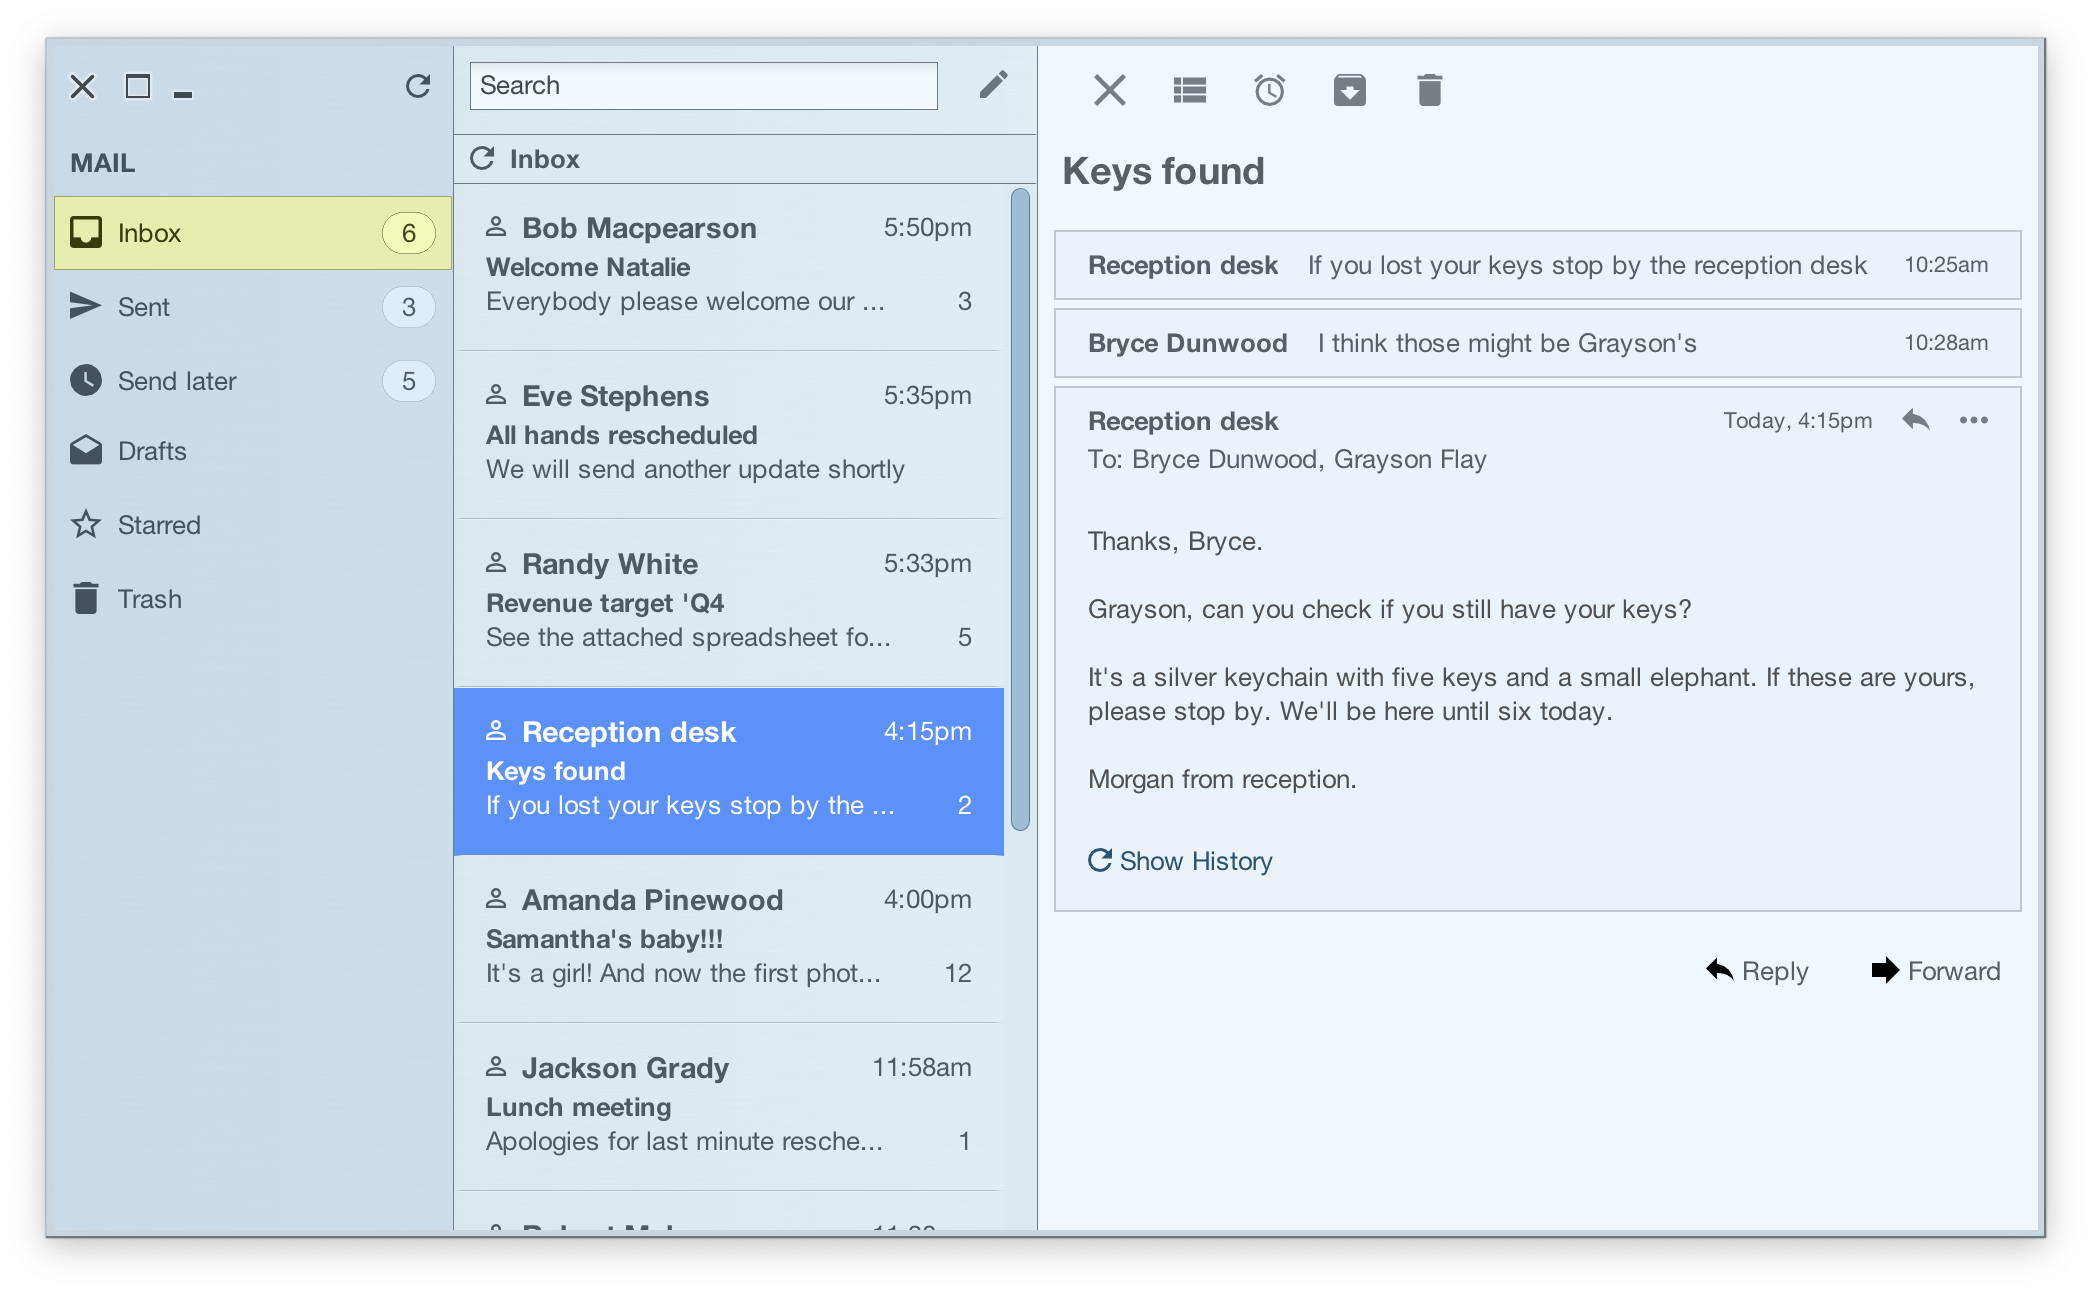
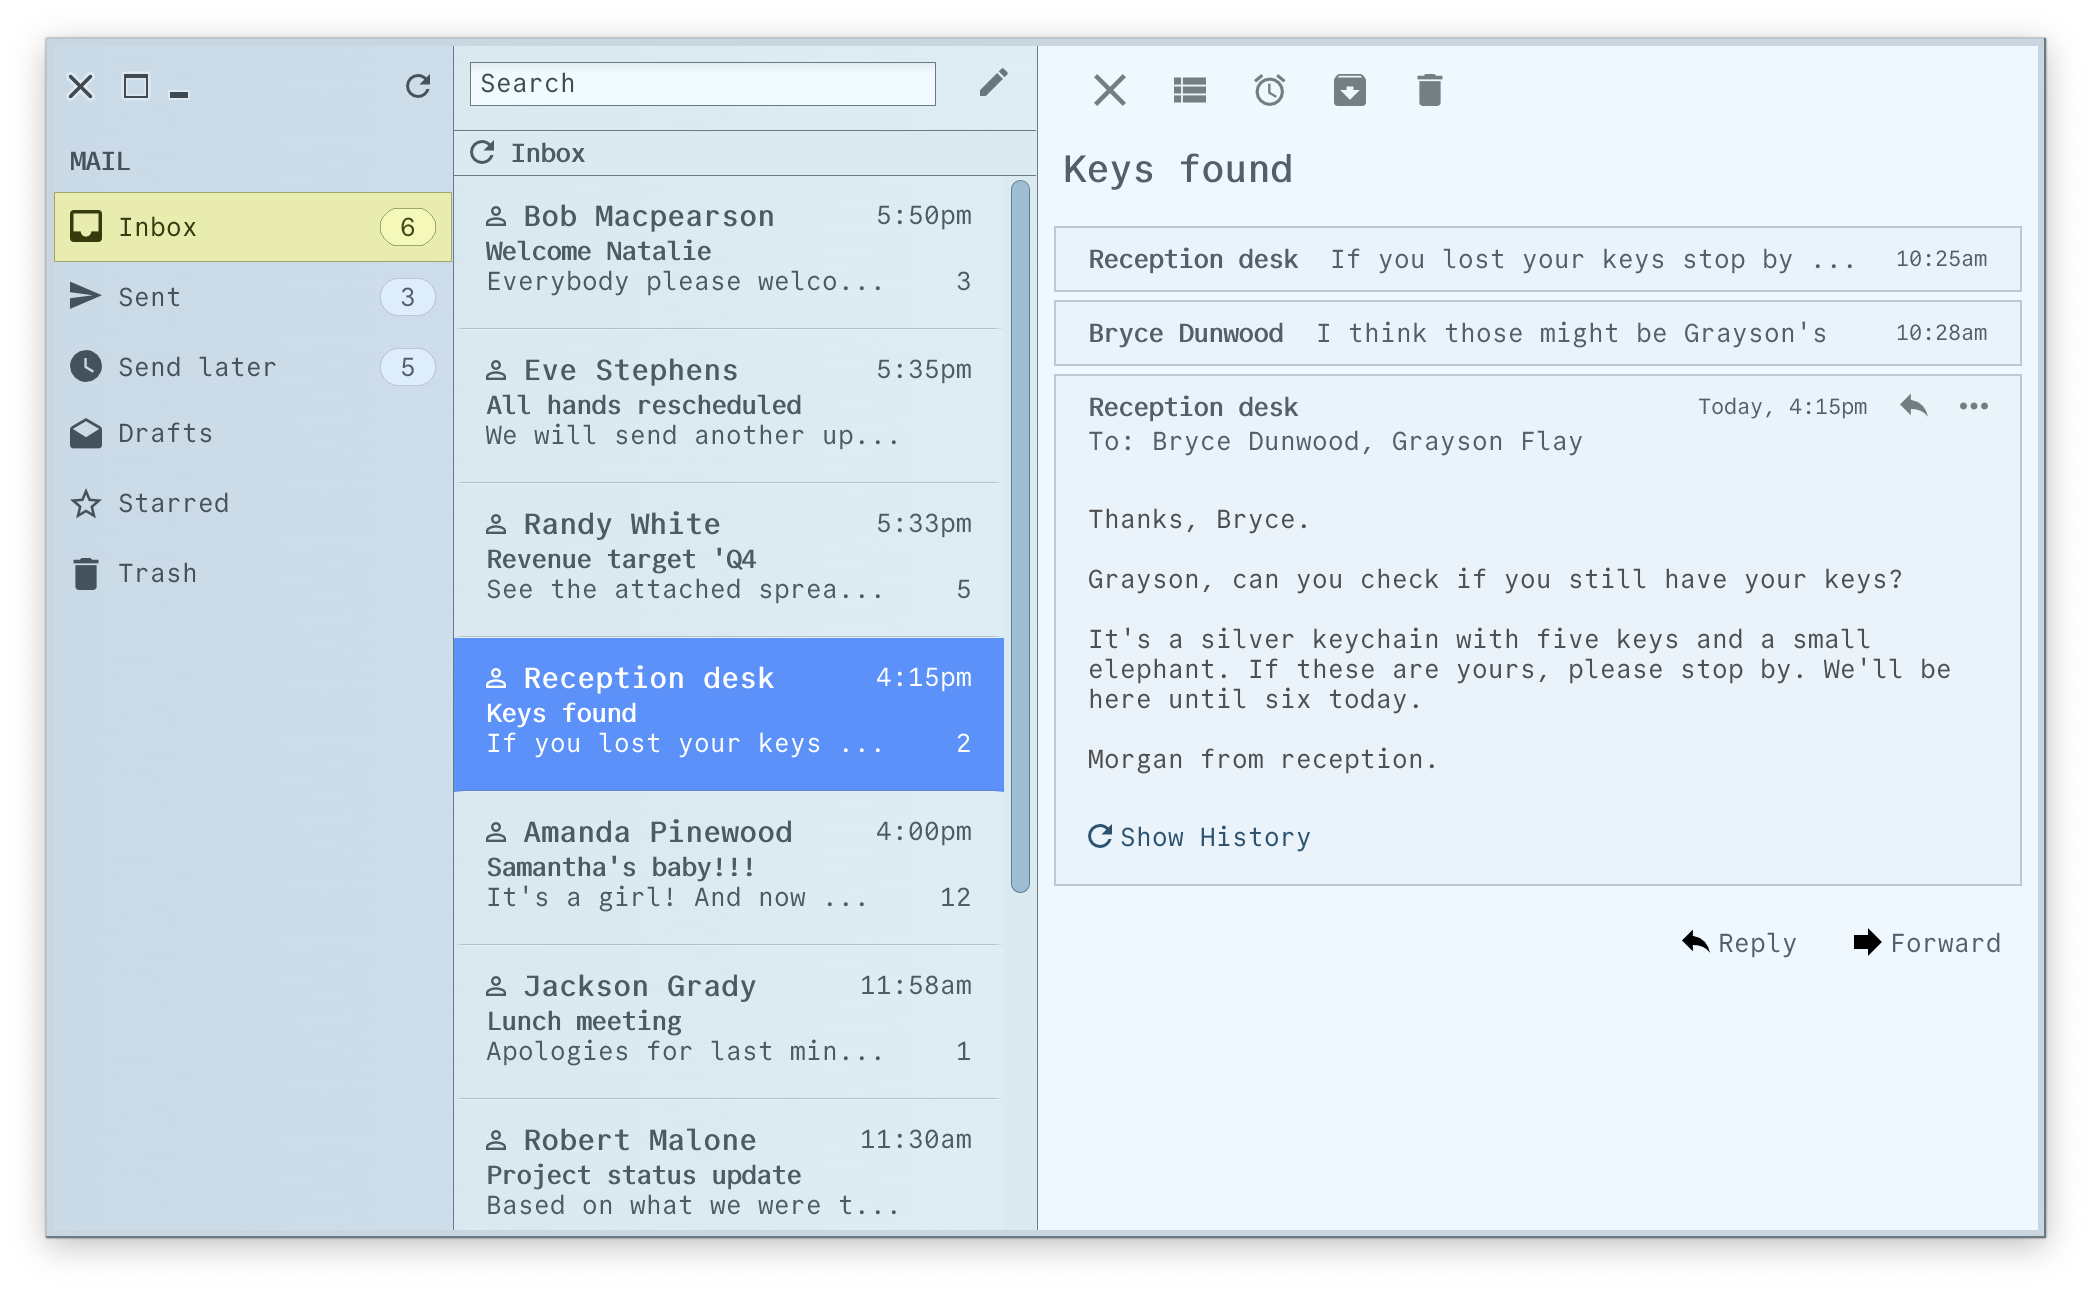
Tweak the Visor Mail demo line wrapping
Works better with monospace fonts to wrap on words

diff --git a/demos/theming-apps/src/main/java/org/pushingpixels/radiance/demo/themingapps/mail/ThreadPanel.java b/demos/theming-apps/src/main/java/org/pushingpixels/radiance/demo/themingapps/mail/ThreadPanel.java
@@ -194,8 +194,9 @@ public class ThreadPanel extends JPanel {
         JLabel toLabel = new JLabel("To: " + to);
         toLabel.setBorder(new EmptyBorder(0, 16, 24, 16));
 
-        JEditorPane messagePane = new JEditorPane();
-        messagePane.setContentType("text/plain");
+        JTextArea messagePane = new JTextArea();
+        messagePane.setWrapStyleWord(true);
+        messagePane.setLineWrap(true);
         messagePane.setBorder(new EmptyBorder(0, 16, 0, 16));
         messagePane.setBackground(innerBackground);
         messagePane.setText(message);
